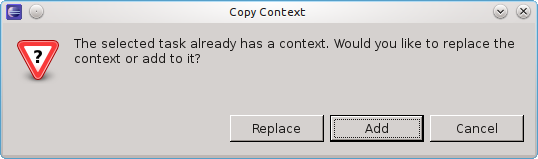
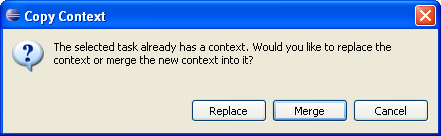
NEW - bug 340105: create New & Noteworthy for Mylyn 3.5 https://bugs.eclipse.org/bugs/show_bug.cgi?id=340105

diff --git a/new/new-3.5.html b/new/new-3.5.html
@@ -1,4 +1,3 @@
-
 <html>
 <body bgcolor="FFFFFF">
 
@@ -46,15 +45,14 @@
 	<li><a href="#framework">Framework and API</a></li>
 </ul>
 
-<p><b>Note: </b>The Mylyn weekly update sites have moved:</p>
+<p><b>Note: </b>The Mylyn update sites has moved:</p>
 
 <ul>
-	<li>Repository for Mylyn 3.5:<br><br>
-	&nbsp;&nbsp;<b><font color="#666666">http://</font>download.eclipse.org/mylyn/releases/3.5</b>&nbsp;&nbsp;(Eclipse
+	<li><b><font color="#666666">http://</font>download.eclipse.org/mylyn/releases/3.5</b>&nbsp;&nbsp;(Eclipse
 	3.5, 3.6, 3.7)<br><br></li>
 </ul>
 
-<p>See the <a href="/mylyn/downloads/">download page</a> for other changes.</p> 
+<p>See the <a href="/mylyn/downloads/">download page</a> for additional locations.</p> 
 
 <p>Mylyn 3.5 requires <a href="https://bugs.eclipse.org/bugs/show_bug.cgi?id=313436">Eclipse 3.5 or later</a>.</p>
 
@@ -67,15 +65,17 @@
 <table cellpadding="10" cellspacing="0">
 	<tr>
 		<td align="left" valign="top" width="15%" bgcolor="#E0D0E6">
-		<p align="right"><b>Active Task on Trim</b></p>
+		<p align="right"><b>Filter Tasks not Matching Queries</b></p>
 		</td>
 		<td valign="top" width="85%">
-		<p align="left">If "Show Subtasks not Matching Queries" is disabled under "Advanced
-Filters" the Task List only shows subtasks directly matched by
-queries. The neat thing is that all subtasks are still cached to make
-them accessible for searching and quick offline access but subtasks
-that you may not be interested in don't overload the Task List any
-longer.</p>
+		<p align="left">By default all subtasks are shown in the Task List.
+					This can lead to an overload of incomings when connecting to
+					repositories that structure tasks in deep hierarchies. De-selecting
+					"Show Subtasks not Matching Queries" under "Advanced Filters" in
+					the Task List will only show subtasks directly matched by queries.
+					All subtasks are still cached to make them accessible for searching
+					and quick offline access but subtasks that you may not be
+					interested in don't overload the Task List any longer.</p>
 		<p><img border="0" src="images/3.5/task-list-filters.png"></p>
 		</td>
 	</tr>	
@@ -89,7 +89,9 @@ longer.</p>
 		<p align="right"><b>Active Task on Trim</b></p>
 		</td>
 		<td valign="top" width="85%">
-		<p align="left">A widget that is displayed on the window trim shows the active task. Tasks can be activated from the history using the arrow button.</p>
+		<p align="left">A widget that is displayed on the window trim shows
+					the active task. Tasks can be activated from the history using the
+					arrow button.</p>
 		<p><img border="0" src="images/3.5/task-trim.png"></p>
 		</td>
 	</tr>	
@@ -125,7 +127,7 @@ longer.</p>
 <table cellpadding="10" cellspacing="0">
 	<tr>
 		<td align="left" valign="top" width="15%" bgcolor="#E0D0E6">
-		<p align="right"><b>Task-Focused Interface: Merging of Contexts</b></p>
+		<p align="right"><b>Merging of Contexts</b></p>
 		</td>
 		<td valign="top" width="85%">
 		<p align="left">Sam Davis contributed an enhancement that displays a prompt to merge or replace an existing context when copying a context between tasks.</p>
@@ -152,43 +154,22 @@ longer.</p>
 
 
 <p>&nbsp;</p>
-<h2><a name="hudson">Hudson Connector (supports Jenkins)</a></h2>
+<h2><a name="hudson">Hudson/Jenkins Connector</a></h2>
 
 <table cellpadding="10" cellspacing="0">
 	<tr>
 		<td align="left" valign="top" width="15%" bgcolor="#E0D0E6">
-		<p align="right"><b>Hudson Connector (Incubation)</b></p>
+		<p align="right"><b>Hudson/Jenkins Connector (Incubation)</b></p>
 		</td>
 		<td valign="top" width="85%">
-		<p align="left">The Hudson connector, developed by Markus Knittig as part of <a href="http://wiki.eclipse.org/Mylyn/Hudson_Integration_for_Mylyn" target="_new">his Google Summer of Code project</a>, shows the status of build jobs in a Builds view. The view shows the time of the last build and the weather icon indicates how frequently a build has failed in the recent past.</p>
+		<p align="left">
+					The Hudson connector (supports Jenkins), developed by Markus
+					Knittig as part of a <a href="http://wiki.eclipse.org/Mylyn/Hudson_Integration_for_Mylyn" target="_new">Google Summer of Code project</a>,
+					shows the status of selected Hudson and Jenkins jobs in a Builds view. For each job the
+					time of the last build is shown and the weather icon indicates how
+					frequently a build has failed in the recent past.
+				</p>
 		<p><img border="0" src="images/3.5/builds-view2.png"></p>
-		</td>
-	</tr>	
-	<tr>
-		<td align="left" valign="top" width="15%" bgcolor="#E0D0E6">
-		<p align="right"><b></b></p>
-		</td>
-		<td valign="top" width="85%">
-		<p align="left">Build jobs can be selected for monitoring from the properties dialog.</p>
-		<p><img border="0" src="images/3.5/hudson-properties.png"></p>
-		</td>
-	</tr>	
-	<tr>
-		<td align="left" valign="top" width="15%" bgcolor="#E0D0E6">
-		<p align="right"><b></b></p>
-		</td>
-		<td valign="top" width="85%">
-		<p align="left">Automatic refreshing of build status can be configured in the preferences.</p>
-		<p><img border="0" src="images/3.5/builds-preferences.png"></p>
-		</td>
-	</tr>	
-	<tr>
-		<td align="left" valign="top" width="15%" bgcolor="#E0D0E6">
-		<p align="right"><b></b></p>
-		</td>
-		<td valign="top" width="85%">
-		<p align="left">The overall status of builds is displayed as a decoration when the Builds view is in fast view mode.</p>
-		<p><img border="0" src="images/3.5/builds-view-icon.png"></p>
 		</td>
 	</tr>	
 	<tr>
@@ -205,6 +186,29 @@ longer.</p>
 		<p align="right"><b></b></p>
 		</td>
 		<td valign="top" width="85%">
+		<p align="left">The overall status of builds is displayed as a decoration when the Builds view is in fast view mode.</p>
+		<p><img border="0" src="images/3.5/builds-view-icon.png"></p>
+		</td>
+	</tr>	
+	<tr>
+		<td colspan="2">
+		<hr>
+		</td>
+	</tr>
+	<tr>
+		<td align="left" valign="top" width="15%" bgcolor="#E0D0E6">
+		<p align="right"><b>Automatic Refresh</b></p>
+		</td>
+		<td valign="top" width="85%">
+		<p align="left">Automatic refreshing of the view can be configured in the preferences.</p>
+		<p><img border="0" src="images/3.5/builds-preferences.png"></p>
+		</td>
+	</tr>	
+	<tr>
+		<td align="left" valign="top" width="15%" bgcolor="#E0D0E6">
+		<p align="right"><b>Build Notifications</b></p>
+		</td>
+		<td valign="top" width="85%">
 		<p align="left">Popup notifications are displayed when the status of a build plan changes.</p>
 		<p><img border="0" src="images/3.5/builds-popup-notification.png"></p>
 		</td>
@@ -216,66 +220,27 @@ longer.</p>
 	</tr>
 	<tr>
 		<td align="left" valign="top" width="15%" bgcolor="#E0D0E6">
-		<p align="right"><b>Hudson Connector (Incubation): Automatic Server Discovery and Test Results</b></p>
+		<p align="right"><b>Server Properties</b></p>
 		</td>
 		<td valign="top" width="85%">
-		<p align="left">Torkild Ulv&#248;y Resheim provided a great contribution that adds auto discovery for Hudson servers through ECF. When a server is dicovered a service message is displayed in the Builds view and the server can be configured with two clicks.</p>
+		<p align="left">Build jobs are selected for monitoring from the servers properties dialog.</p>
+		<p><img border="0" src="images/3.5/hudson-properties.png"></p>
+		</td>
+	</tr>	
+	<tr>
+		<td colspan="2">
+		<hr>
+		</td>
+	</tr>
+	<tr>
+		<td align="left" valign="top" width="15%" bgcolor="#E0D0E6">
+		<p align="right"><b>Automatic Server Discovery</b></p>
+		</td>
+		<td valign="top" width="85%">
+		<p align="left">The connector monitors the local network and displays
+					a service message in the Builds view when a new server is
+					discovered. Selecting jobs for monitoring only takes a few clicks.</p>
 		<p><img border="0" src="images/3.5/hudson-autodiscovery.png"></p>
-		</td>
-	</tr>	
-	<tr>
-		<td colspan="2">
-		<hr>
-		</td>
-	</tr>
-	<tr>
-		<td align="left" valign="top" width="15%" bgcolor="#E0D0E6">
-		<p align="right"><b></b></p>
-		</td>
-		<td valign="top" width="85%">
-		<p align="left">If a build requires parameters a dialog is displayed when it is run.</p>
-		<p><img border="0" src="images/3.5/hudson-parameters.png"></p>
-		</td>
-	</tr>	
-	<tr>
-		<td colspan="2">
-		<hr>
-		</td>
-	</tr>
-	<tr>
-		<td align="left" valign="top" width="15%" bgcolor="#E0D0E6">
-		<p align="right"><b>Build Editor</b></p>
-		</td>
-		<td valign="top" width="85%">
-		<p align="left">Builds can be opened in an editor that displays build details on a single page: Status, tests results, artifacts and code changes.</p>
-		<p><img border="0" src="images/3.5/builds-editor3.png"></p>
-		</td>
-	</tr>	
-	<tr>
-		<td align="left" valign="top" width="15%" bgcolor="#E0D0E6">
-		<p align="right"><b>Hudson Connector (Incubation): Test Integration and More Enhancements</b></p>
-		</td>
-		<td valign="top" width="85%">
-		<p align="left">The test results of the last build can be viewed by selecting Show Test Results from the popup menu in the Builds view. Tests can be rerun locally from the JUnit view.</p>
-		<p><img border="0" src="images/3.5/builds-test-results.png"></p>
-		</td>
-	</tr>	
-	<tr>
-		<td align="left" valign="top" width="15%" bgcolor="#E0D0E6">
-		<p align="right"><b></b></p>
-		</td>
-		<td valign="top" width="85%">
-		<p align="left">The build editor shows tests results in a tree that opens the corresponding Java file on double click. The list of tests can be filtered to show failures only.</p>
-		<p><img border="0" src="images/3.5/builds-editor-test-results.png"></p>
-		</td>
-	</tr>	
-	<tr>
-		<td align="left" valign="top" width="15%" bgcolor="#E0D0E6">
-		<p align="right"><b></b></p>
-		</td>
-		<td valign="top" width="85%">
-		<p align="left">Tasks can easily be created from builds. The description is automatically pre-populated with a list of changed files and failed tests.</p>
-		<p><img border="0" src="images/3.5/build-new-task.png"></p>
 		</td>
 	</tr>	
 	<tr>
@@ -298,17 +263,21 @@ longer.</p>
 		</td>
 	</tr>
 	<tr>
-		<td colspan="2">
-		<hr>
-		</td>
-	</tr>
-	<tr>
 		<td align="left" valign="top" width="15%" bgcolor="#E0D0E6">
-		<p align="right"><b>Hudson Connector (Incubation): Enhancements</b></p>
+		<p align="right"><b>Build Editor</b></p>
 		</td>
 		<td valign="top" width="85%">
-		<p align="left">The output of the last build can be viewed by selecting Show Output from the popup menu in the Builds view. Java stack traces are hyperlinked.</p>
-		<p><img border="0" src="images/3.5/builds-console.png"></p>
+		<p align="left">Builds can be opened in an editor that displays build details on a single page: Status, tests results, artifacts and code changes.</p>
+		<p><img border="0" src="images/3.5/builds-editor3.png"></p>
+		</td>
+	</tr>	
+	<tr>
+		<td align="left" valign="top" width="15%" bgcolor="#E0D0E6">
+		<p align="right"><b>Test Integration</b></p>
+		</td>
+		<td valign="top" width="85%">
+		<p align="left">The test results of the last build can be viewed by selecting Show Test Results from the popup menu in the Builds view. Tests can be rerun locally from the JUnit view.</p>
+		<p><img border="0" src="images/3.5/builds-test-results.png"></p>
 		</td>
 	</tr>	
 	<tr>
@@ -316,10 +285,52 @@ longer.</p>
 		<p align="right"><b></b></p>
 		</td>
 		<td valign="top" width="85%">
-		<p align="left">URLs are hyperlinked in the console.</p>
-		<p><img border="0" src="images/3.5/builds-console-hyperlink.png"></p>
+		<p align="left">The build editor shows tests results in a tree that opens the corresponding Java file on double click. The list of tests can be filtered to show failures only.</p>
+		<p><img border="0" src="images/3.5/builds-editor-test-results.png"></p>
+		</td>
+	</tr>	
+	<tr>
+		<td colspan="2">
+		<hr>
 		</td>
 	</tr>
+	<tr>
+		<td align="left" valign="top" width="15%" bgcolor="#E0D0E6">
+		<p align="right"><b>Running Builds</b></p>
+		</td>
+		<td valign="top" width="85%">
+		<p align="left">If a build requires parameters a dialog is displayed when it is run.</p>
+		<p><img border="0" src="images/3.5/hudson-parameters.png"></p>
+		</td>
+	</tr>	
+	<tr>
+		<td colspan="2">
+		<hr>
+		</td>
+	</tr>
+	<tr>
+		<td align="left" valign="top" width="15%" bgcolor="#E0D0E6">
+		<p align="right"><b>Creating Tasks from Builds</b></p>
+		</td>
+		<td valign="top" width="85%">
+		<p align="left">Tasks can easily be created from builds. The description is automatically pre-populated with a list of changed files and failed tests.</p>
+		<p><img border="0" src="images/3.5/build-new-task.png"></p>
+		</td>
+	</tr>	
+	<tr>
+		<td colspan="2">
+		<hr>
+		</td>
+	</tr>
+	<tr>
+		<td align="left" valign="top" width="15%" bgcolor="#E0D0E6">
+		<p align="right"><b>Build Console</b></p>
+		</td>
+		<td valign="top" width="85%">
+		<p align="left">The output of the last build can be viewed by selecting Show Output from the popup menu in the Builds view. Java stack trace elements and URLs are hyperlinked.</p>
+		<p><img border="0" src="images/3.5/builds-console.png"></p>
+		</td>
+	</tr>	
 </table>
 
 
@@ -373,10 +384,10 @@ longer.</p>
 <table cellpadding="10" cellspacing="0">
 	<tr>
 		<td align="left" valign="top" width="15%" bgcolor="#E0D0E6">
-		<p align="right"><b>Trac: Mid-air collision detection support</b></p>
+		<p align="right"><b>Mid-air collision detection support</b></p>
 		</td>
 		<td valign="top" width="85%">
-		<p align="left">If a Trac ticket has changed since it was last synchronized an error is displayed to avoid unintentional overwriting of changes. Please note that this requires a <a href="http://trac-hacks.org/ticket/5402">patched version of Trac's XML-RPC Plugin</a>.</p>
+		<p align="left">If a Trac ticket has changed since it was last synchronized an error is displayed to avoid unintentional overwriting of changes. Please note that this requires the latest version of <a href="http://trac-hacks.org/wiki/XmlRpcPlugin" target="_new">Trac's XML-RPC Plugin</a>.</p>
 		<p><img border="0" src="images/3.5/trac-mid-air-collision.png"></p>
 		</td>
 	</tr>
@@ -387,7 +398,7 @@ longer.</p>
 	</tr>
 	<tr>
 		<td align="left" valign="top" width="15%" bgcolor="#E0D0E6">
-		<p align="right"><b>Trac: Decoration for Stories</b></p>
+		<p align="right"><b>Decoration for Stories</b></p>
 		</td>
 		<td valign="top" width="85%">
 		<p align="left">Trac tickets with type 'story' are decorated as stories.</p>
@@ -400,7 +411,7 @@ longer.</p>
 <p>&nbsp;</p>
 <h2><a name="framework">Framework and API</a></h2>
 
-<p>See <a href="http://wiki.eclipse.org/Mylyn/Porting_Guide#Notable_API_changes_in_3.5">porting guide</a> for additional notes on API changes.</p>
+<p>See <a href="http://wiki.eclipse.org/Mylyn/Porting_Guide#Notable_API_changes_in_3.5" target="_new">porting guide</a> for additional notes on API changes.</p>
 
 <table cellpadding="10" cellspacing="0">
 	<tr>
